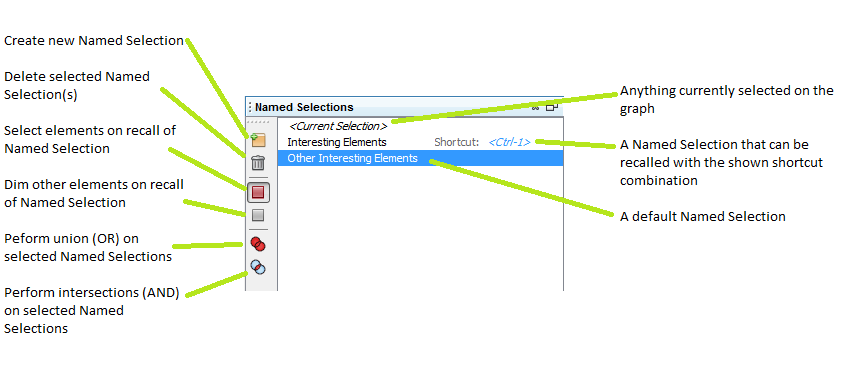
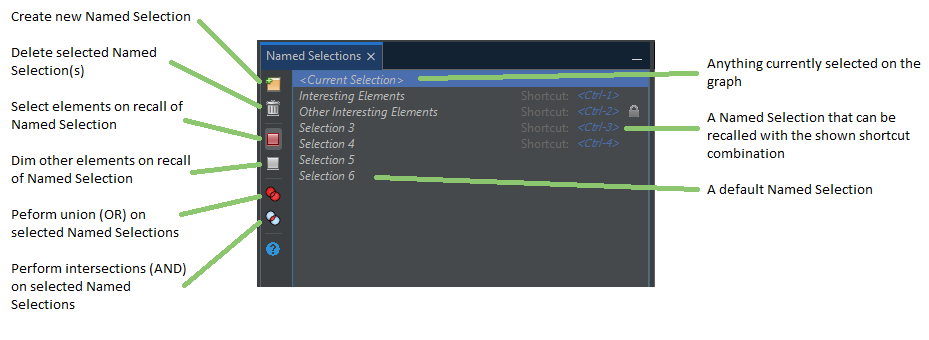
Update Help pages for Named Selections, add Help button to View, and fix the renaming functionality.

diff --git a/CoreNamedSelectionView/src/au/gov/asd/tac/constellation/views/namedselection/NamedSelectionTopComponent.java b/CoreNamedSelectionView/src/au/gov/asd/tac/constellation/views/namedselection/NamedSelectionTopComponent.java
@@ -15,6 +15,8 @@
  */
 package au.gov.asd.tac.constellation.views.namedselection;
 
+import au.gov.asd.tac.constellation.utilities.color.ConstellationColor;
+import au.gov.asd.tac.constellation.utilities.icon.UserInterfaceIconProvider;
 import au.gov.asd.tac.constellation.views.SwingTopComponent;
 import au.gov.asd.tac.constellation.views.namedselection.panes.NamedSelectionListElement;
 import au.gov.asd.tac.constellation.views.namedselection.panes.NamedSelectionModDescPanel;
@@ -44,6 +46,7 @@ import org.openide.NotifyDescriptor;
 import org.openide.awt.ActionID;
 import org.openide.awt.ActionReference;
 import org.openide.awt.ActionReferences;
+import org.openide.util.HelpCtx;
 import org.openide.util.NbBundle.Messages;
 import org.openide.windows.TopComponent;
 
@@ -283,6 +286,8 @@ public final class NamedSelectionTopComponent extends SwingTopComponent<JPanel> 
         jSeparator1 = new javax.swing.JToolBar.Separator();
         btnUnion = new javax.swing.JButton();
         btnIntersection = new javax.swing.JButton();
+        jSeparator2 = new javax.swing.JToolBar.Separator();
+        helpButton = new javax.swing.JButton();
         scrlContent = new javax.swing.JScrollPane();
         lstNamedSelections = new NamedSelectionList();
 
@@ -355,7 +360,6 @@ public final class NamedSelectionTopComponent extends SwingTopComponent<JPanel> 
         });
         popContext.add(mnuDescription);
 
-        tlbActions.setFloatable(false);
         tlbActions.setOrientation(javax.swing.SwingConstants.VERTICAL);
         tlbActions.setRollover(true);
 
@@ -439,6 +443,20 @@ public final class NamedSelectionTopComponent extends SwingTopComponent<JPanel> 
             }
         });
         tlbActions.add(btnIntersection);
+        tlbActions.add(jSeparator2);
+
+        helpButton.setIcon(UserInterfaceIconProvider.HELP.buildIcon(16, ConstellationColor.SKY.getJavaColor()));
+        org.openide.awt.Mnemonics.setLocalizedText(helpButton, org.openide.util.NbBundle.getMessage(NamedSelectionTopComponent.class, "NamedSelectionTopComponent.helpButton.text")); // NOI18N
+        helpButton.setToolTipText(org.openide.util.NbBundle.getMessage(NamedSelectionTopComponent.class, "NamedSelectionTopComponent.helpButton.toolTipText")); // NOI18N
+        helpButton.setFocusable(false);
+        helpButton.setHorizontalTextPosition(javax.swing.SwingConstants.CENTER);
+        helpButton.setVerticalTextPosition(javax.swing.SwingConstants.BOTTOM);
+        helpButton.addActionListener(new java.awt.event.ActionListener() {
+            public void actionPerformed(java.awt.event.ActionEvent evt) {
+                helpButtonActionPerformed(evt);
+            }
+        });
+        tlbActions.add(helpButton);
 
         scrlContent.setAutoscrolls(true);
 
@@ -646,6 +664,11 @@ public final class NamedSelectionTopComponent extends SwingTopComponent<JPanel> 
     private void mnuOverwriteActionPerformed(java.awt.event.ActionEvent evt) {//GEN-FIRST:event_mnuOverwriteActionPerformed
         overwriteSelection();
     }//GEN-LAST:event_mnuOverwriteActionPerformed
+
+    private void helpButtonActionPerformed(java.awt.event.ActionEvent evt) {//GEN-FIRST:event_helpButtonActionPerformed
+        new HelpCtx(NamedSelectionTopComponent.class.getName()).display();
+    }//GEN-LAST:event_helpButtonActionPerformed
+
     // Variables declaration - do not modify//GEN-BEGIN:variables
     private javax.swing.JButton btnAdd;
     private javax.swing.JToggleButton btnDimMode;
@@ -653,7 +676,9 @@ public final class NamedSelectionTopComponent extends SwingTopComponent<JPanel> 
     private javax.swing.JButton btnRemove;
     private javax.swing.JToggleButton btnSelectResults;
     private javax.swing.JButton btnUnion;
+    private javax.swing.JButton helpButton;
     private javax.swing.JToolBar.Separator jSeparator1;
+    private javax.swing.JToolBar.Separator jSeparator2;
     private javax.swing.JList lstNamedSelections;
     private javax.swing.JCheckBoxMenuItem mnuCheckLocked;
     private javax.swing.JMenuItem mnuClone;

diff --git a/CoreNamedSelectionView/src/au/gov/asd/tac/constellation/views/namedselection/NamedSelectionHelpProvider.java b/CoreNamedSelectionView/src/au/gov/asd/tac/constellation/views/namedselection/NamedSelectionHelpProvider.java
@@ -45,7 +45,7 @@ public class NamedSelectionHelpProvider extends HelpPageProvider {
         final String namedModulePath = ".." + sep + "ext" + sep + "docs" + sep + "CoreNamedSelectionView" + sep + "src" + sep + "au" + sep + "gov"
                 + sep + "asd" + sep + "tac" + sep + CODEBASE_NAME + sep + "views" + sep + "namedselection" + sep;
 
-        map.put("au.gov.asd.tac.constellation.views.namedselection", namedModulePath + "named-selections-view.md");
+        map.put("au.gov.asd.tac.constellation.views.namedselection.NamedSelectionTopComponent", namedModulePath + "named-selections-view.md");
         return map;
     }
 

diff --git a/CoreNamedSelectionView/src/au/gov/asd/tac/constellation/views/namedselection/NamedSelection.java b/CoreNamedSelectionView/src/au/gov/asd/tac/constellation/views/namedselection/NamedSelection.java
@@ -89,7 +89,6 @@ public class NamedSelection {
         this.hotkey = namedSelection.hotkey;
         this.name = namedSelection.name;
         this.isLocked = namedSelection.isLocked;
-        setDefaultName();
     }
 
     /**
